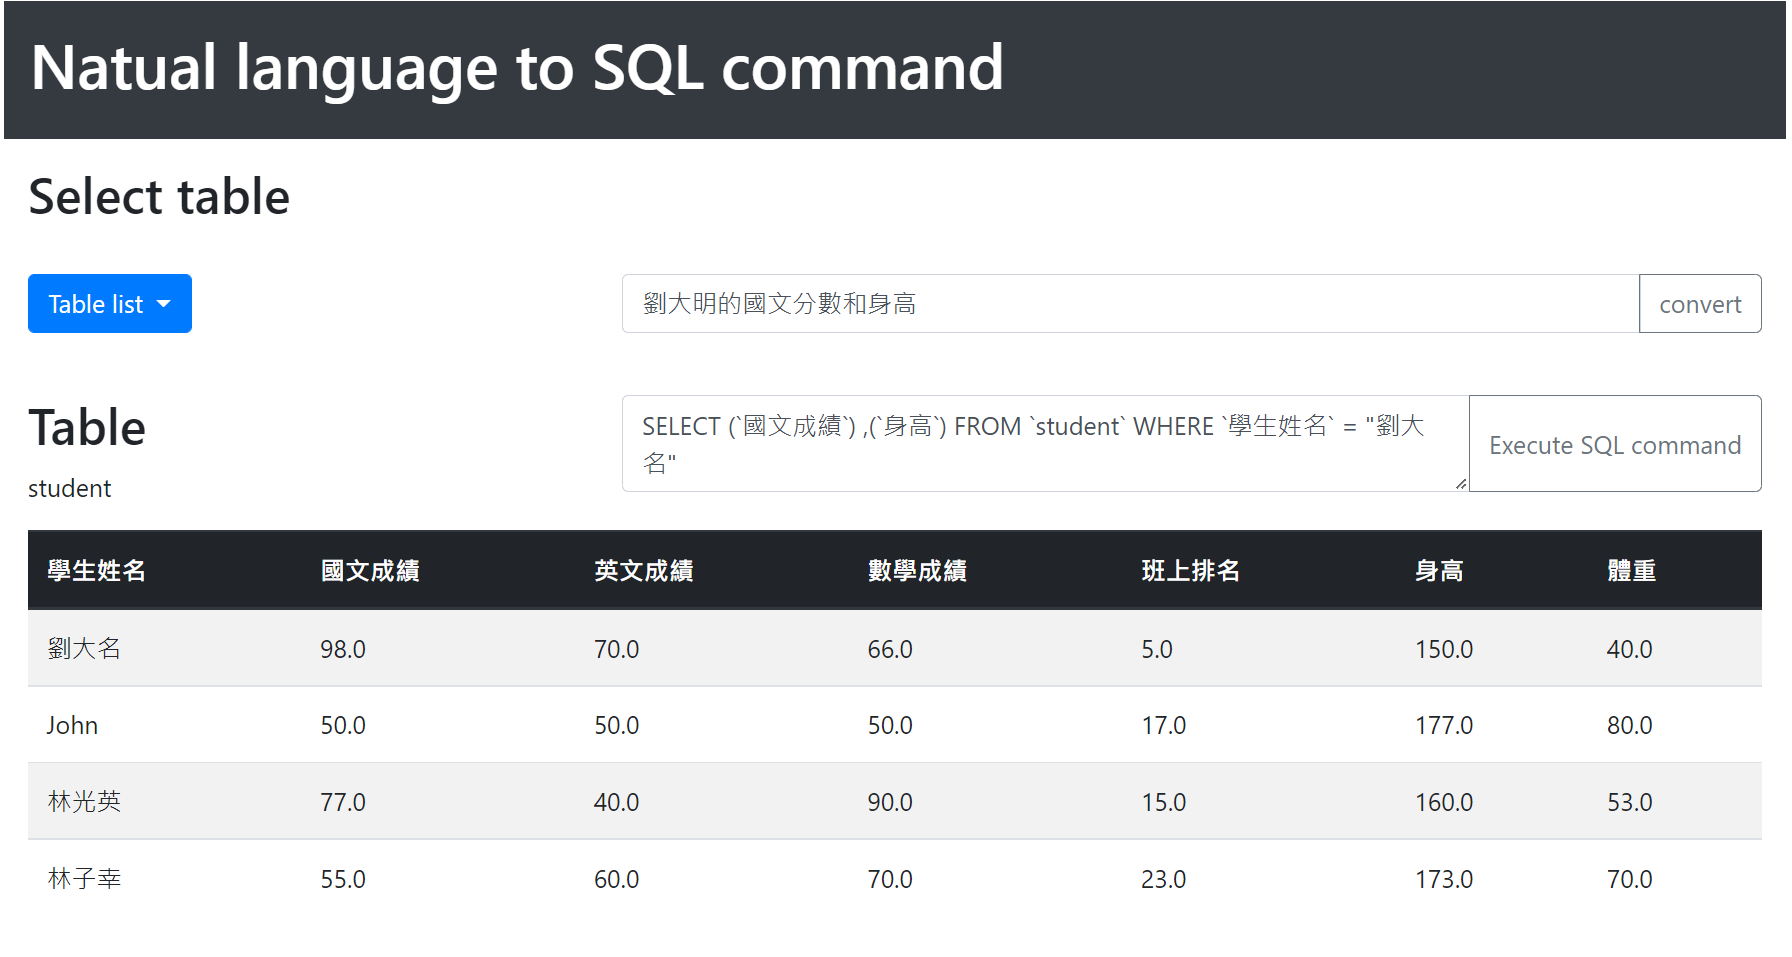
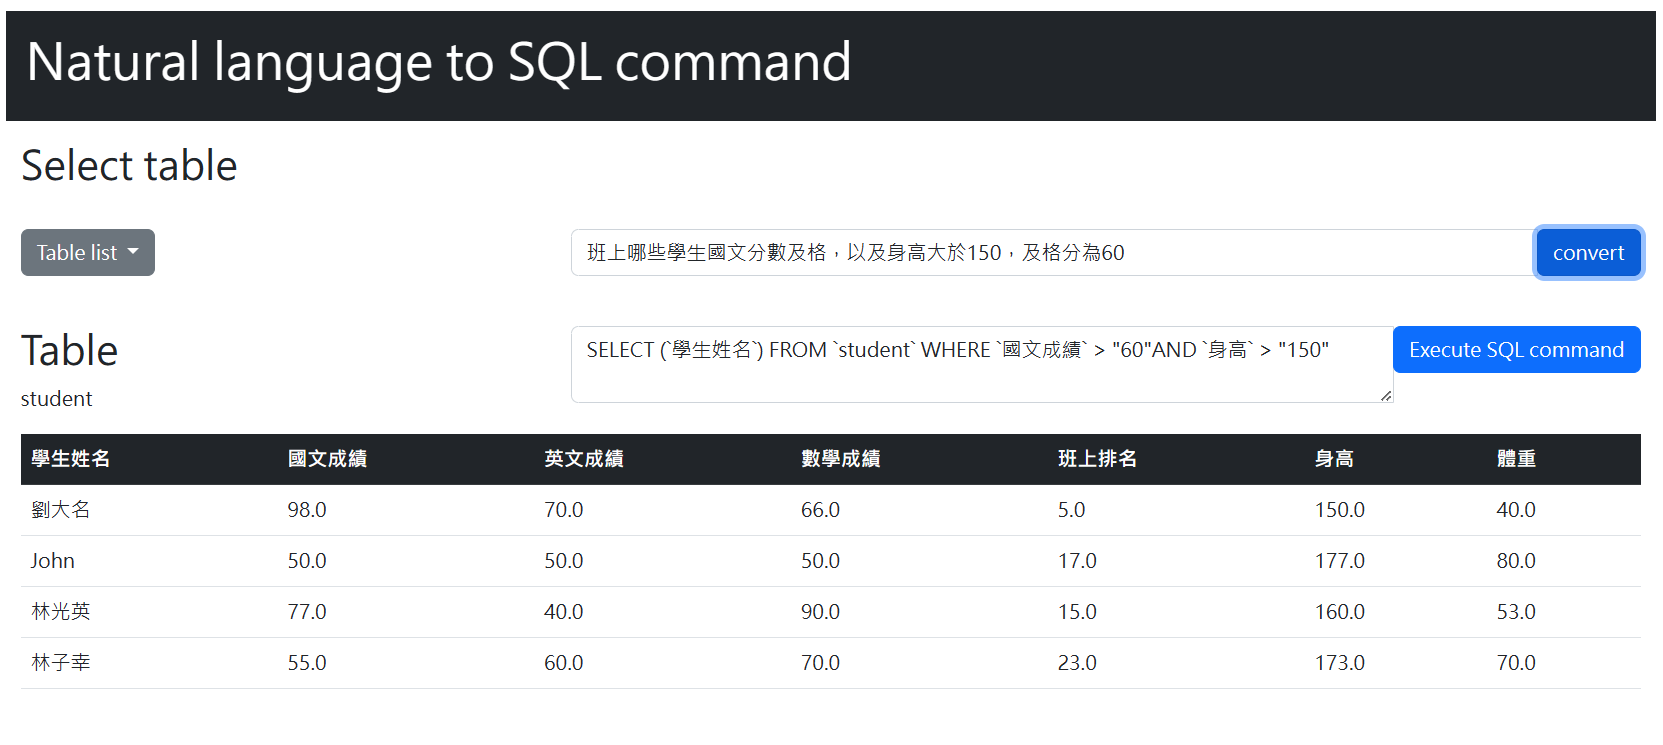
Update readme

diff --git a/templates/index.html b/templates/index.html
@@ -13,7 +13,7 @@
 
 <body>
   <div class="container p-3 my-3 bg-dark text-white">
-    <h1>Natual language to SQL command</h1>
+    <h1>Natural language to SQL command</h1>
   </div>
   <div class="container ">
     <h2>Select table</h2>

diff --git a/ReadMe.md b/ReadMe.md
@@ -1,5 +1,5 @@
 # NL2SQL
-NL2SQL is a website that allows users to input natural language and convert them into SQL commands, and you can also execute SQL commands to confirm the results.
+NL2SQL is a website that allows users to input natural language and convert them into SQL commands. In addition to generating SQL queries from natural language, the NL2SQL platform also allows users to execute SQL commands directly on the platform to confirm the accuracy of the generated SQL queries.
 
 # Build up
 Download models from [drive](https://drive.google.com/drive/folders/1GC0JHVyxUzjJQrjeL3Fd1H7k9fvcyKjy?usp=sharing) and place it under N2S/saved_models

diff --git a/N2S/ReadMe.md b/N2S/ReadMe.md
@@ -1,0 +1,15 @@
+# Train your model
+You can run the scripts to train customized model.
+
+
+**Install packages.**
+```
+pip install -r requirements.txt
+```
+
+**Enter to N2S folder and run the sripts.**
+```
+cd N2S
+sh scriipts/train_m1.sh
+sh scripts/train_m2.sh
+```
